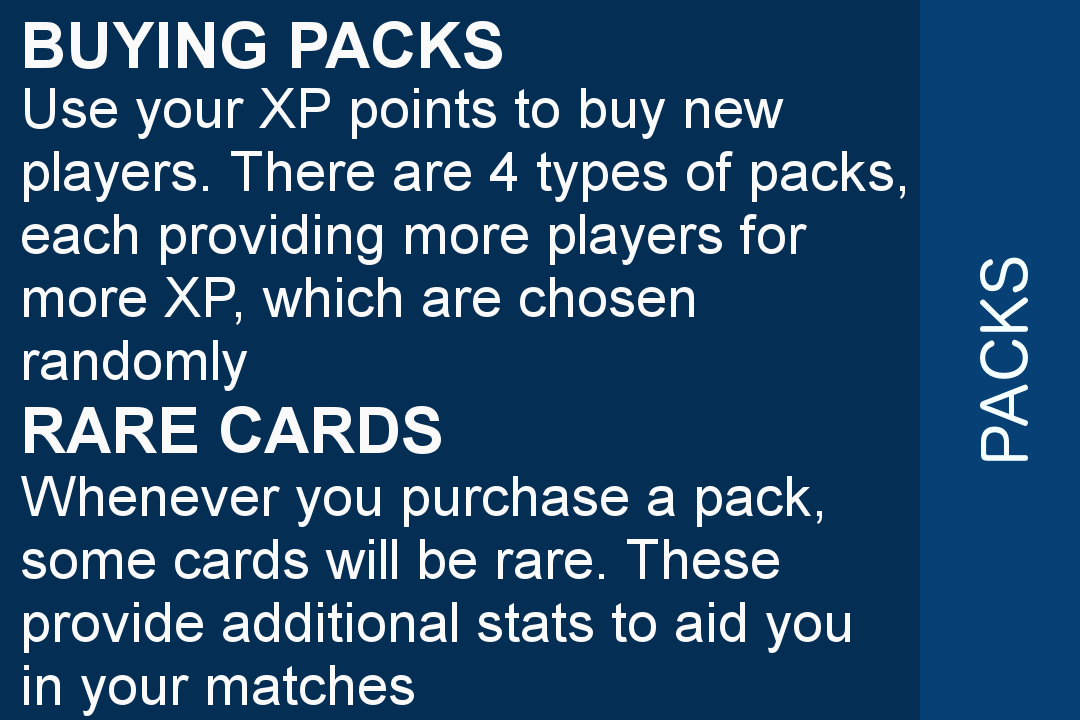
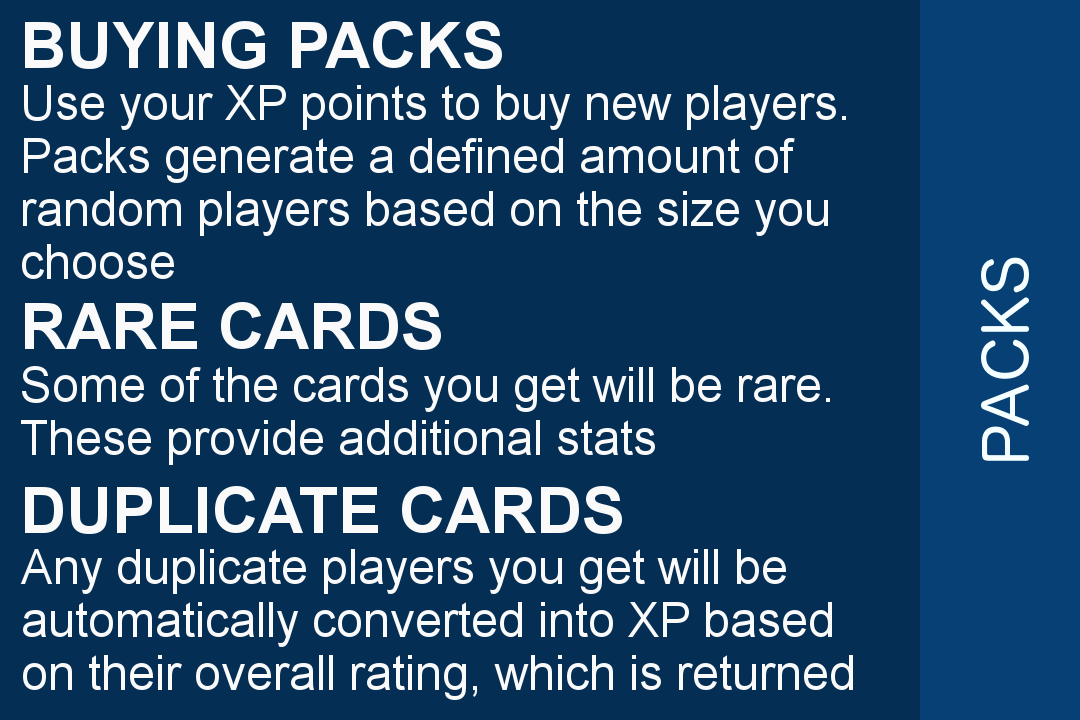
Fixed music toggle not functioning properly. Changed Packs help card

diff --git a/Gage/app/src/main/java/uk/ac/qub/eeecs/gage/ui/PushButton.java b/Gage/app/src/main/java/uk/ac/qub/eeecs/gage/ui/PushButton.java
@@ -235,4 +235,9 @@ public class PushButton extends Button {
      * Sets the button's enabled property
      */
     public void setEnabled(boolean isEnabled) {this.isEnabled = isEnabled;}
+
+    /**
+     * Sets mBitmap to mDefaultBitmap
+     */
+    public void updateMainBitmap() { this.mBitmap = mDefaultBitmap; }
 }

diff --git a/Gage/app/src/main/java/uk/ac/qub/eeecs/gage/ui/Button.java b/Gage/app/src/main/java/uk/ac/qub/eeecs/gage/ui/Button.java
@@ -54,7 +54,6 @@ public abstract class Button extends GameObject {
     /**
      * Protected class to manage text property of a Button
      */
-    // TODO: ButtonText is WIP
     protected class ButtonText {
         private Button button;
         private String text = "";
